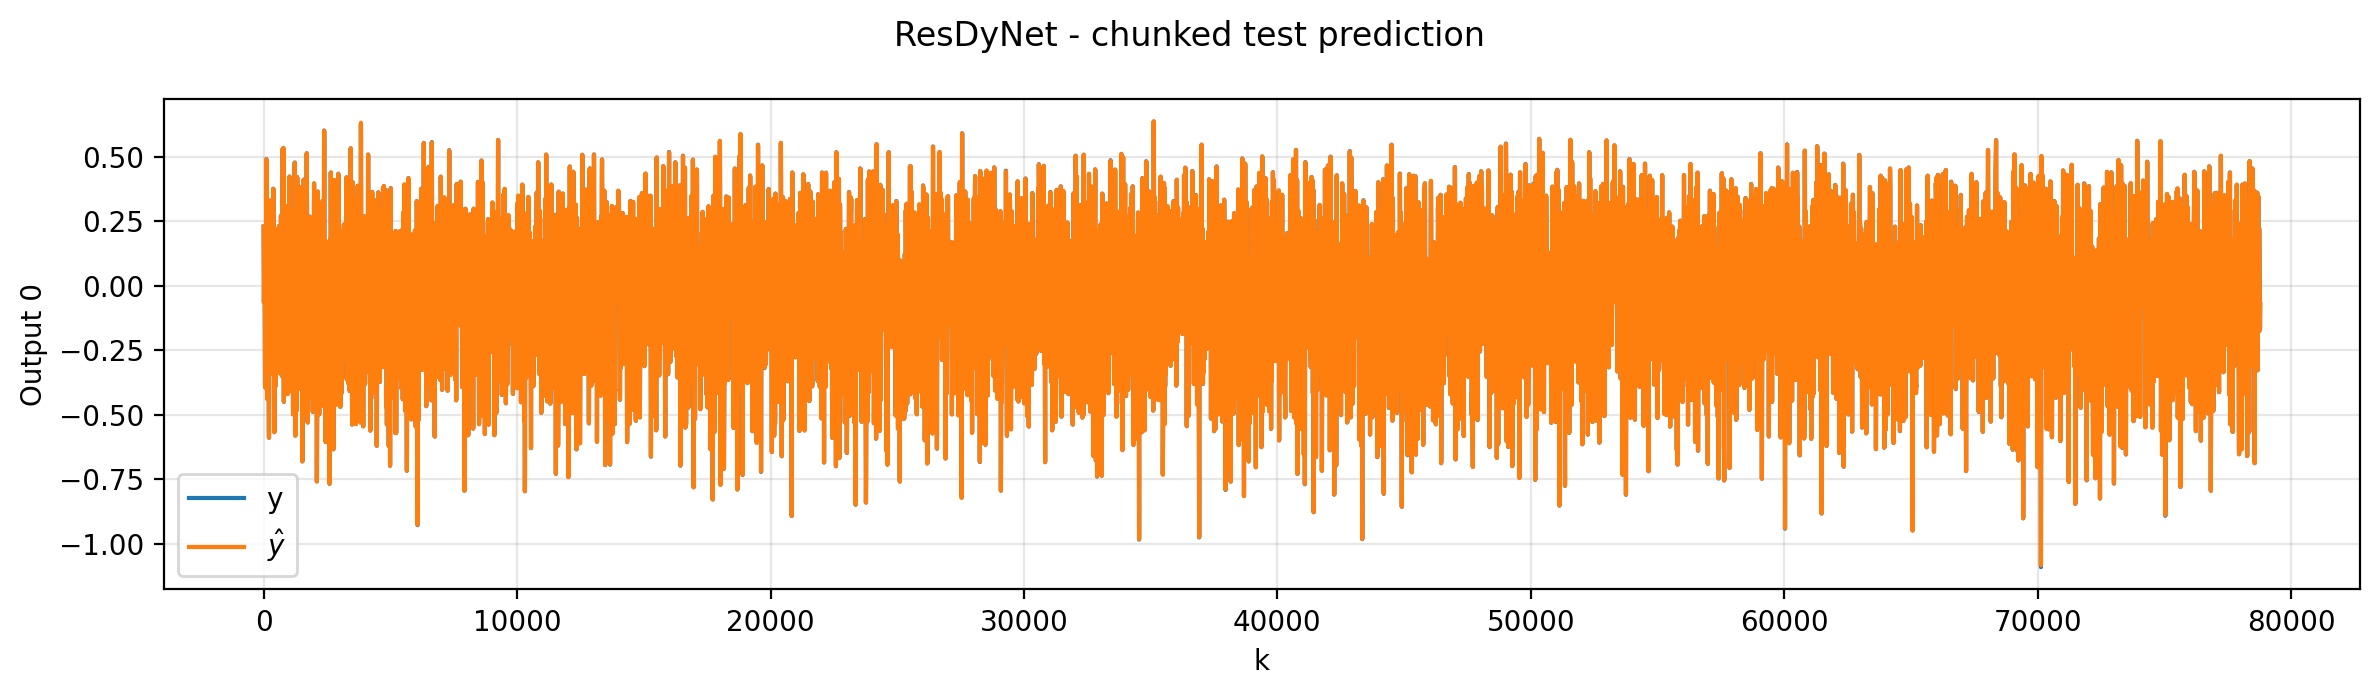
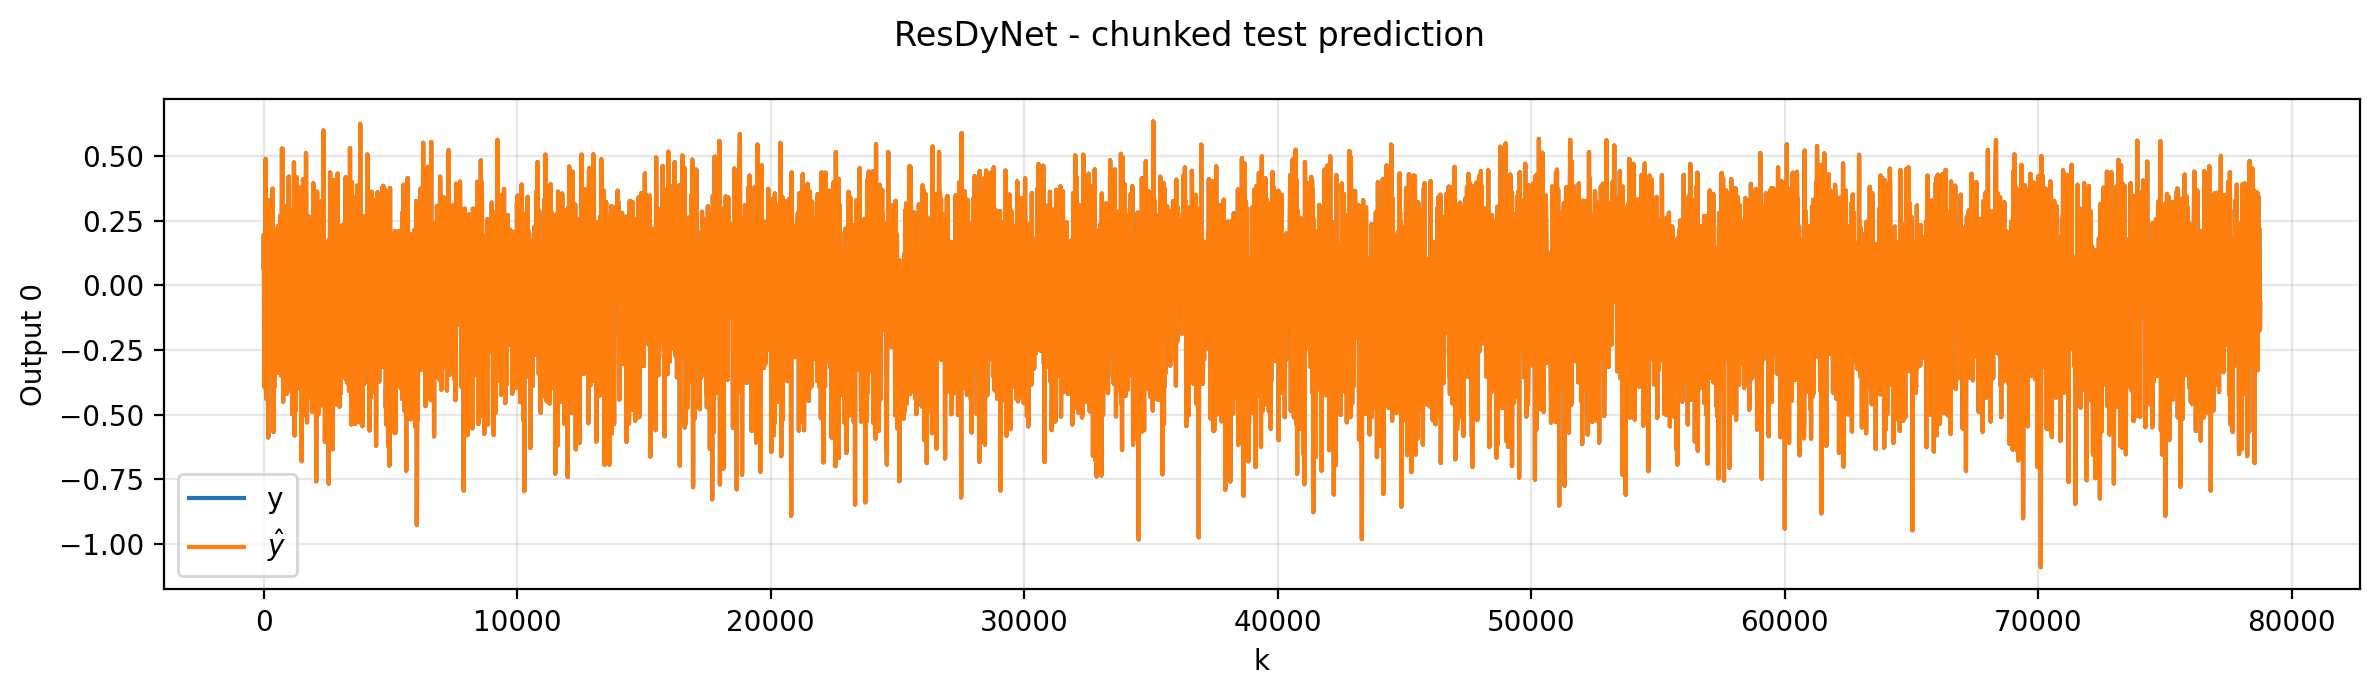
new commit

diff --git a/test.py b/test.py
@@ -4,6 +4,7 @@ import os
 # These must come before torch import
 import torch
 
+from dataclasses import replace
 from sklearn.preprocessing import StandardScaler
 from torch.utils.data import DataLoader
 import nonlinear_benchmarks
@@ -147,15 +148,15 @@ def main() -> None:
     cfg = ResDyNetConfig(
         n_u=1,
         n_y=1,
-        n_x=8,
-        n_a=20,
-        n_b=20,
+        n_x=14,
+        n_a=50,
+        n_b=50,
         m=0,                  # m=0 -> only current prediction
-        horizon=20,
-        encoder_hidden=[256, 256],
-        transition_hidden=256,
-        transition_blocks=2,
-        decoder_hidden=[256, 256],
+        horizon=80,
+        encoder_hidden=[15],
+        transition_hidden=15,
+        transition_blocks=1,
+        decoder_hidden=[15],
         activation="tanh",
     )
 
@@ -166,7 +167,7 @@ def main() -> None:
     val_fraction = 0.2
     patience = 10000
     tail_start = 50
-    checkpoint_path = "checkpoints/best_resdynet_wh4.pth"
+    checkpoint_path = "checkpoints/best_resdynet_WH_fresh.pth"
     clip_grad_norm = 1.0
 
     gamma = torch.ones(cfg.horizon, dtype=torch.float32, device=device)
@@ -257,18 +258,24 @@ def main() -> None:
     print("Normalized RMSE on rollout windows:", float(test_rmse_norm), flush=True)
 
     log_stage("Running chunked test evaluation")
-    test_eval_chunked = evaluate_chunked_test_sequence(
-        model=model,
-        u=data["u_test"],
-        y=data["y_test"],
-        cfg=cfg,
-        device=device,
-        y_scaler=data["y_scaler"],
-    )
+    chunked_evals = {}
+    for eval_horizon in (1, cfg.horizon):
+        eval_cfg = replace(cfg, horizon=eval_horizon)
+        test_eval_chunked = evaluate_chunked_test_sequence(
+            model=model,
+            u=data["u_test"],
+            y=data["y_test"],
+            cfg=eval_cfg,
+            device=device,
+            y_scaler=data["y_scaler"],
+        )
+        chunked_evals[eval_horizon] = test_eval_chunked
 
-    print("\nFinal chunked test metrics:", flush=True)
-    print("RMSE [volt]:", test_eval_chunked["rmse"].numpy(), flush=True)
-    print("NRMSE [%]:  ", test_eval_chunked["nrmse_pct"].numpy(), flush=True)
+        print(f"\nFinal chunked test metrics H={eval_horizon}:", flush=True)
+        print("RMSE [volt]:", test_eval_chunked["rmse"].numpy(), flush=True)
+        print("NRMSE [%]:  ", test_eval_chunked["nrmse_pct"].numpy(), flush=True)
+
+    test_eval_chunked = chunked_evals[cfg.horizon]
 
     log_stage("Plotting predictions")
     plot_chunked_test_prediction(

diff --git a/main.py b/main.py
@@ -206,24 +206,25 @@ def main() -> None:
         activation="tanh",
     )
 
-    batch_size = 256
+    batch_size = 512
     base_lr = 1e-3
     weight_decay = 0.0
     val_fraction = 0.2
     patience = 10000
     tail_start = 50
-    checkpoint_path = "checkpoints/best_resdynet_WH_fresh.pth"
-    clip_grad_norm = 1.0
+    checkpoint_path = "checkpoints/best_resdynet_WH_fresh_dup.pth"
+    clip_grad_norm = 0.5
     gamma_decay = 1.0
     curriculum_horizons = [10, 20, 40, cfg.horizon]
     curriculum_epochs = [300, 300, 500, 900]
     curriculum_lrs = [1e-3, 5e-4, 2e-4, 3e-4]
     test_metric_every = 25
-    resume_training = False
-    resume_from_horizon = curriculum_horizons[0]
+    resume_training = True
+    resume_from_horizon = cfg.horizon
     resume_completed_epochs_before_checkpoint = 0
-    resume_lr_override = None
-    resume_remaining_epochs_override = None
+    resume_lr_override = 2e-5
+    resume_remaining_epochs_override = 400
+    resume_scheduler_state = False
     resume_from_checkpoint = stage_checkpoint_path(
         checkpoint_path,
         resume_from_horizon,
@@ -291,7 +292,7 @@ def main() -> None:
             model.load_state_dict(checkpoint["model_state_dict"])
             if checkpoint["optimizer_state_dict"] is not None:
                 optimizer.load_state_dict(checkpoint["optimizer_state_dict"])
-            if checkpoint["scheduler_state_dict"] is not None:
+            if resume_scheduler_state and checkpoint["scheduler_state_dict"] is not None:
                 scheduler.load_state_dict(checkpoint["scheduler_state_dict"])
             if resume_lr_override is not None:
                 for param_group in optimizer.param_groups:
